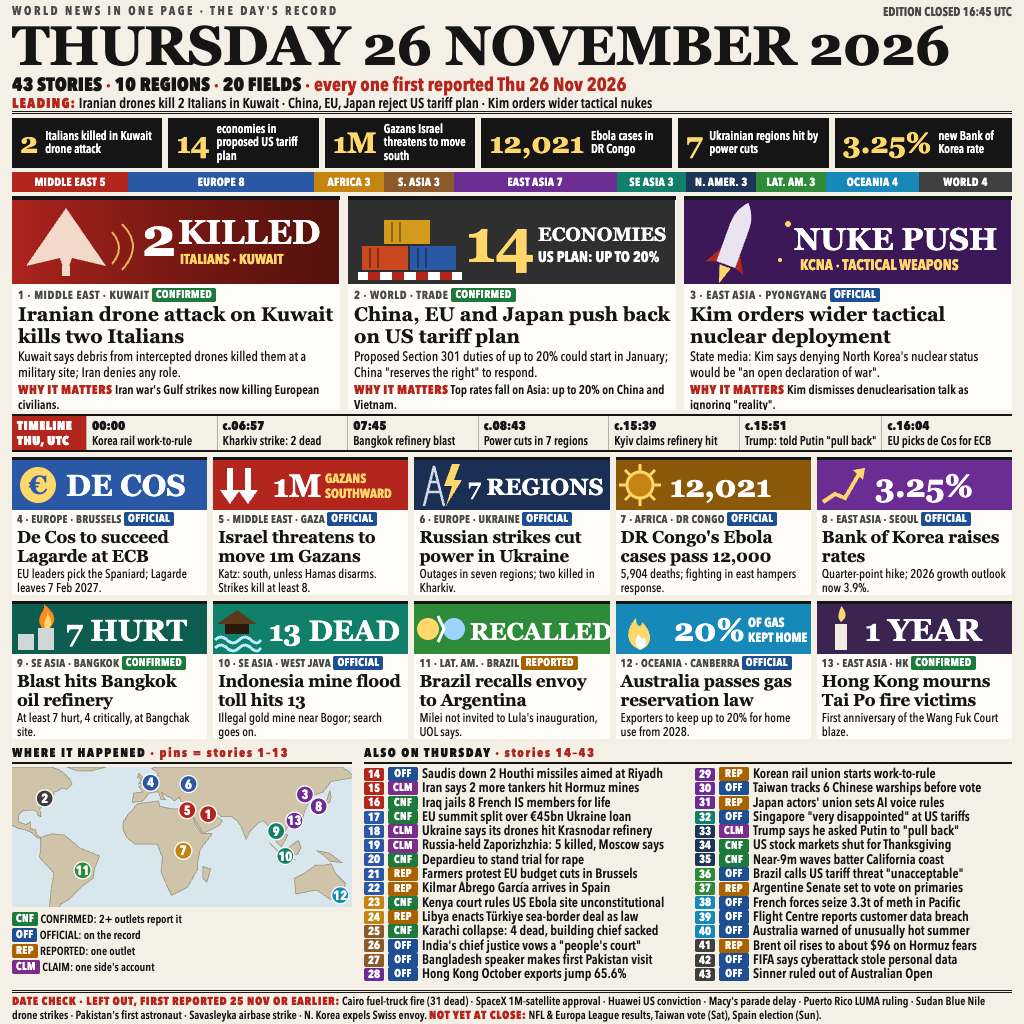
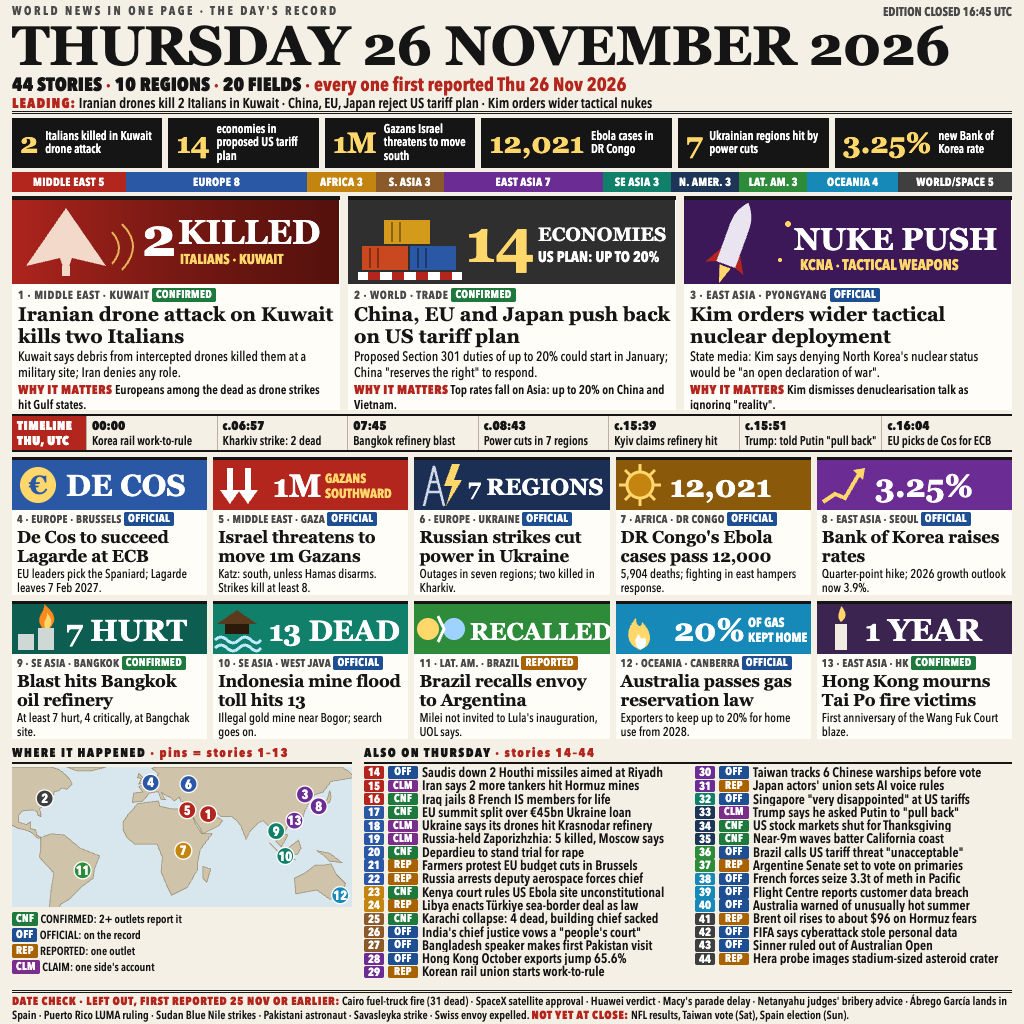
Drop two 25 Nov stories, add Hera crater images and Russian arrest; 44 stories

diff --git a/layout/page.html b/layout/page.html
@@ -80,9 +80,11 @@
   #legend div { white-space: nowrap; }
   #briefs { flex: 1; }
   #briefs ol { list-style: none; columns: 2; column-gap: 14px; margin-top: 3px; }
-  #briefs li { font-size: 13.5px; line-height: 14.3px; font-weight: 600; white-space: nowrap; overflow: hidden; break-inside: avoid; display: flex; align-items: center; gap: 4px; }
+  #briefs li { font-size: 13.5px; line-height: 13.3px; font-weight: 600; white-space: nowrap; overflow: hidden; break-inside: avoid; display: flex; align-items: center; gap: 4px; }
   #briefs li .no { display: inline-block; width: 20px; text-align: center; color: #fff; font-size: 11.5px; font-weight: 700; line-height: 13px; border-radius: 2px; flex: none; }
-  #briefs li .tag { flex: none; width: 30px; text-align: center; padding: 0; }
+  #briefs li .tag { flex: none; width: 30px; text-align: center; padding: 0; line-height: 12.5px; }
+  #briefs li .no { line-height: 12.5px; }
+  #briefs ol { margin-top: 2px; }
 
   /* date check */
   #dc { top: 990px; height: 30px; border-top: 3px double var(--rule); font-size: 11.5px; line-height: 13.5px; font-weight: 600; padding-top: 2px; }
@@ -96,7 +98,7 @@
   <div class="flag">WORLD NEWS IN ONE PAGE · THE DAY'S RECORD</div>
   <div class="closed">EDITION CLOSED 16:45 UTC</div>
   <div class="date">THURSDAY 26 NOVEMBER 2026</div>
-  <div class="counts"><b>43 STORIES</b> · <b>10 REGIONS</b> · <b>20 FIELDS</b> · every one first reported Thu 26 Nov 2026</div>
+  <div class="counts"><b>44 STORIES</b> · <b>10 REGIONS</b> · <b>20 FIELDS</b> · every one first reported Thu 26 Nov 2026</div>
   <div class="kicker"><b>LEADING:</b> Iranian drones kill 2 Italians in Kuwait · China, EU, Japan reject US tariff plan · Kim orders wider tactical nukes</div>
 </div>
 
@@ -110,7 +112,7 @@
   <div class="n" style="flex:1.2"><div class="v">3.25%</div><div class="l">new Bank of Korea rate</div></div>
 </div>
 
-<!-- REGION BAR (widths proportional to story counts, 43 total) -->
+<!-- REGION BAR (widths proportional to story counts, 44 total) -->
 <div id="regions" class="abs">
   <div style="flex:5;background:var(--me)">MIDDLE EAST 5</div>
   <div style="flex:8;background:var(--eu)">EUROPE 8</div>
@@ -121,7 +123,7 @@
   <div style="flex:3;background:var(--na)">N. AMER. 3</div>
   <div style="flex:3;background:var(--la)">LAT. AM. 3</div>
   <div style="flex:4;background:var(--oc)">OCEANIA 4</div>
-  <div style="flex:4;background:var(--wo)">WORLD 4</div>
+  <div style="flex:5;background:var(--wo)">WORLD/SPACE 5</div>
 </div>
 
 <!-- LEAD CARDS -->
@@ -144,7 +146,7 @@
     <div class="meta">1 · MIDDLE EAST · KUWAIT <span class="tag CNF">CONFIRMED</span></div>
     <h2>Iranian drone attack on Kuwait kills two Italians</h2>
     <div class="dek">Kuwait says debris from intercepted drones killed them at a military site; Iran denies any role.</div>
-    <div class="why"><b>WHY IT MATTERS</b> Iran war's Gulf strikes now killing European civilians.</div>
+    <div class="why"><b>WHY IT MATTERS</b> Europeans among the dead as drone strikes hit Gulf states.</div>
   </div>
 
   <div class="lead">
@@ -348,7 +350,7 @@
   </div>
 
   <div id="briefs">
-    <div class="sect">ALSO ON THURSDAY <span>· stories 14–43</span></div>
+    <div class="sect">ALSO ON THURSDAY <span>· stories 14–44</span></div>
     <ol>
       <li><span class="no" style="background:var(--me)">14</span><span class="tag OFF">OFF</span>Saudis down 2 Houthi missiles aimed at Riyadh</li>
       <li><span class="no" style="background:var(--me)">15</span><span class="tag CLM">CLM</span>Iran says 2 more tankers hit Hormuz mines</li>
@@ -358,7 +360,7 @@
       <li><span class="no" style="background:var(--eu)">19</span><span class="tag CLM">CLM</span>Russia-held Zaporizhzhia: 5 killed, Moscow says</li>
       <li><span class="no" style="background:var(--eu)">20</span><span class="tag CNF">CNF</span>Depardieu to stand trial for rape</li>
       <li><span class="no" style="background:var(--eu)">21</span><span class="tag REP">REP</span>Farmers protest EU budget cuts in Brussels</li>
-      <li><span class="no" style="background:var(--eu)">22</span><span class="tag REP">REP</span>Kilmar Ábrego García arrives in Spain</li>
+      <li><span class="no" style="background:var(--eu)">22</span><span class="tag REP">REP</span>Russia arrests deputy aerospace forces chief</li>
       <li><span class="no" style="background:var(--af)">23</span><span class="tag CNF">CNF</span>Kenya court rules US Ebola site unconstitutional</li>
       <li><span class="no" style="background:var(--af)">24</span><span class="tag REP">REP</span>Libya enacts Türkiye sea-border deal as law</li>
       <li><span class="no" style="background:var(--sa)">25</span><span class="tag CNF">CNF</span>Karachi collapse: 4 dead, building chief sacked</li>
@@ -380,12 +382,13 @@
       <li><span class="no" style="background:var(--wo)">41</span><span class="tag REP">REP</span>Brent oil rises to about $96 on Hormuz fears</li>
       <li><span class="no" style="background:var(--wo)">42</span><span class="tag OFF">OFF</span>FIFA says cyberattack stole personal data</li>
       <li><span class="no" style="background:var(--wo)">43</span><span class="tag OFF">OFF</span>Sinner ruled out of Australian Open</li>
+      <li><span class="no" style="background:var(--wo)">44</span><span class="tag REP">REP</span>Hera probe images stadium-sized asteroid crater</li>
     </ol>
   </div>
 </div>
 
 <!-- DATE CHECK -->
-<div id="dc" class="abs"><b>DATE CHECK · LEFT OUT, FIRST REPORTED 25 NOV OR EARLIER:</b> Cairo fuel-truck fire (31 dead) · SpaceX 1M-satellite approval · Huawei US conviction · Macy's parade delay · Puerto Rico LUMA ruling · Sudan Blue Nile drone strikes · Pakistan's first astronaut · Savasleyka airbase strike · N. Korea expels Swiss envoy. <b>NOT YET AT CLOSE:</b> NFL &amp; Europa League results, Taiwan vote (Sat), Spain election (Sun).</div>
+<div id="dc" class="abs"><b>DATE CHECK · LEFT OUT, FIRST REPORTED 25 NOV OR EARLIER:</b> Cairo fuel-truck fire (31 dead) · SpaceX satellite approval · Huawei verdict · Macy's parade delay · Netanyahu judges' bribery advice · Ábrego García lands in Spain · Puerto Rico LUMA ruling · Sudan Blue Nile strikes · Pakistani astronaut · Savasleyka strike · Swiss envoy expelled. <b>NOT YET AT CLOSE:</b> NFL results, Taiwan vote (Sat), Spain election (Sun).</div>
 
 </body>
 </html>
